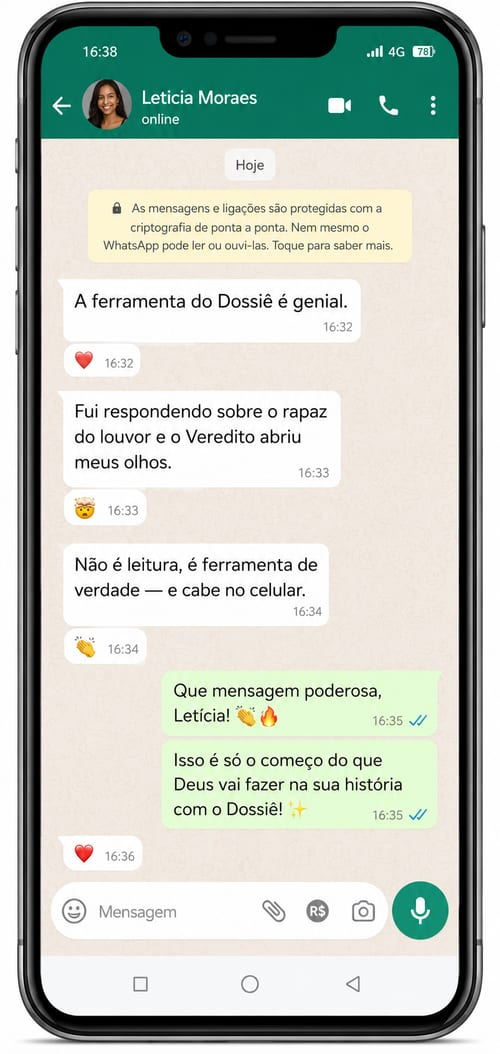
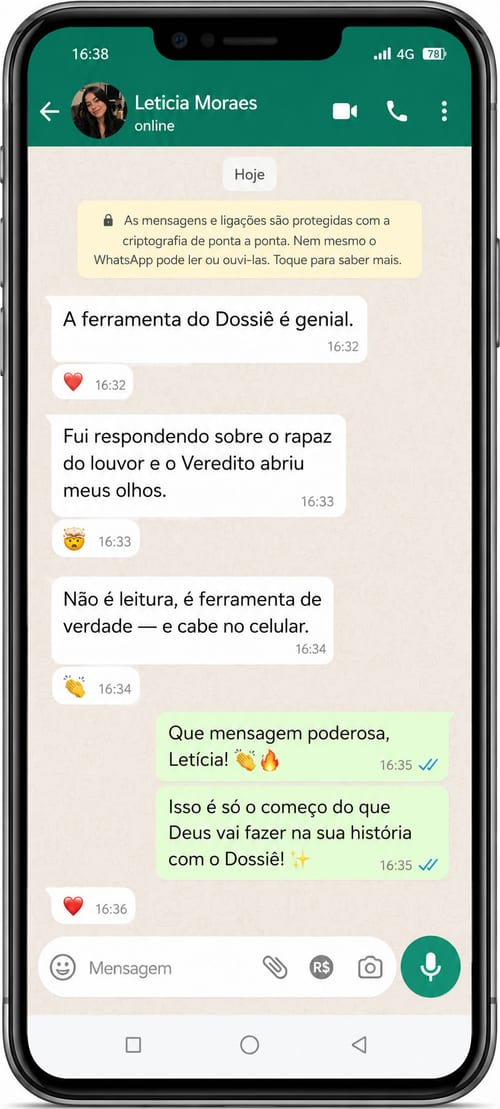
content(corte): depoimentos atualizados (7 fotos novas otimizadas)
Substitui pelos 7 depoimentos editados pelo usuario (jpg), otimizados a 500px/q82
(~443KB total). Slider passa de 9 -> 7 cards. Remove dep8/dep9.

diff --git a/apps/corte/public/panfleto/index.html b/apps/corte/public/panfleto/index.html
@@ -208,7 +208,7 @@ src="https://www.facebook.com/tr?id=1013277894836851&ev=PageView&noscript=1"/></
     <!-- PROVA SOCIAL (logo apos o herói) -->
     <section>
       <div class="sec-head"><span class="kicker">Damas da igreja</span><h2>O que as leitoras estão <em>dizendo</em></h2></div>
-      <div class="wslider"><div class="wcard"><img src="/panfleto/depoimentos/dep1.jpg" alt="Depoimento de uma leitora no WhatsApp" decoding="async"></div><div class="wcard"><img src="/panfleto/depoimentos/dep2.jpg" alt="Depoimento de uma leitora no WhatsApp" decoding="async"></div><div class="wcard"><img src="/panfleto/depoimentos/dep3.jpg" alt="Depoimento de uma leitora no WhatsApp" decoding="async"></div><div class="wcard"><img src="/panfleto/depoimentos/dep4.jpg" alt="Depoimento de uma leitora no WhatsApp" decoding="async"></div><div class="wcard"><img src="/panfleto/depoimentos/dep5.jpg" alt="Depoimento de uma leitora no WhatsApp" decoding="async"></div><div class="wcard"><img src="/panfleto/depoimentos/dep6.jpg" alt="Depoimento de uma leitora no WhatsApp" decoding="async"></div><div class="wcard"><img src="/panfleto/depoimentos/dep7.jpg" alt="Depoimento de uma leitora no WhatsApp" decoding="async"></div><div class="wcard"><img src="/panfleto/depoimentos/dep8.jpg" alt="Depoimento de uma leitora no WhatsApp" decoding="async"></div><div class="wcard"><img src="/panfleto/depoimentos/dep9.jpg" alt="Depoimento de uma leitora no WhatsApp" decoding="async"></div></div>
+      <div class="wslider"><div class="wcard"><img src="/panfleto/depoimentos/dep1.jpg" alt="Depoimento de uma leitora no WhatsApp" decoding="async"></div><div class="wcard"><img src="/panfleto/depoimentos/dep2.jpg" alt="Depoimento de uma leitora no WhatsApp" decoding="async"></div><div class="wcard"><img src="/panfleto/depoimentos/dep3.jpg" alt="Depoimento de uma leitora no WhatsApp" decoding="async"></div><div class="wcard"><img src="/panfleto/depoimentos/dep4.jpg" alt="Depoimento de uma leitora no WhatsApp" decoding="async"></div><div class="wcard"><img src="/panfleto/depoimentos/dep5.jpg" alt="Depoimento de uma leitora no WhatsApp" decoding="async"></div><div class="wcard"><img src="/panfleto/depoimentos/dep6.jpg" alt="Depoimento de uma leitora no WhatsApp" decoding="async"></div><div class="wcard"><img src="/panfleto/depoimentos/dep7.jpg" alt="Depoimento de uma leitora no WhatsApp" decoding="async"></div></div>
       <p class="slider-hint">← arraste para ler mais →</p>
     </section>
 

diff --git a/apps/corte/public/panfleto-slim/index.html b/apps/corte/public/panfleto-slim/index.html
@@ -310,7 +310,7 @@ src="https://www.facebook.com/tr?id=1013277894836851&ev=PageView&noscript=1"/></
         <span class="kicker">Damas da igreja</span>
         <h2>O que as leitoras estão <em>dizendo</em></h2>
       </div>
-      <div class="wslider"><div class="wcard"><img src="/panfleto/depoimentos/dep1.jpg" alt="Depoimento de uma leitora no WhatsApp" decoding="async"></div><div class="wcard"><img src="/panfleto/depoimentos/dep2.jpg" alt="Depoimento de uma leitora no WhatsApp" decoding="async"></div><div class="wcard"><img src="/panfleto/depoimentos/dep3.jpg" alt="Depoimento de uma leitora no WhatsApp" decoding="async"></div><div class="wcard"><img src="/panfleto/depoimentos/dep4.jpg" alt="Depoimento de uma leitora no WhatsApp" decoding="async"></div><div class="wcard"><img src="/panfleto/depoimentos/dep5.jpg" alt="Depoimento de uma leitora no WhatsApp" decoding="async"></div><div class="wcard"><img src="/panfleto/depoimentos/dep6.jpg" alt="Depoimento de uma leitora no WhatsApp" decoding="async"></div><div class="wcard"><img src="/panfleto/depoimentos/dep7.jpg" alt="Depoimento de uma leitora no WhatsApp" decoding="async"></div><div class="wcard"><img src="/panfleto/depoimentos/dep8.jpg" alt="Depoimento de uma leitora no WhatsApp" decoding="async"></div><div class="wcard"><img src="/panfleto/depoimentos/dep9.jpg" alt="Depoimento de uma leitora no WhatsApp" decoding="async"></div></div>
+      <div class="wslider"><div class="wcard"><img src="/panfleto/depoimentos/dep1.jpg" alt="Depoimento de uma leitora no WhatsApp" decoding="async"></div><div class="wcard"><img src="/panfleto/depoimentos/dep2.jpg" alt="Depoimento de uma leitora no WhatsApp" decoding="async"></div><div class="wcard"><img src="/panfleto/depoimentos/dep3.jpg" alt="Depoimento de uma leitora no WhatsApp" decoding="async"></div><div class="wcard"><img src="/panfleto/depoimentos/dep4.jpg" alt="Depoimento de uma leitora no WhatsApp" decoding="async"></div><div class="wcard"><img src="/panfleto/depoimentos/dep5.jpg" alt="Depoimento de uma leitora no WhatsApp" decoding="async"></div><div class="wcard"><img src="/panfleto/depoimentos/dep6.jpg" alt="Depoimento de uma leitora no WhatsApp" decoding="async"></div><div class="wcard"><img src="/panfleto/depoimentos/dep7.jpg" alt="Depoimento de uma leitora no WhatsApp" decoding="async"></div></div>
       <p class="slider-hint">← arraste para ler mais →</p>
     </section>
 
